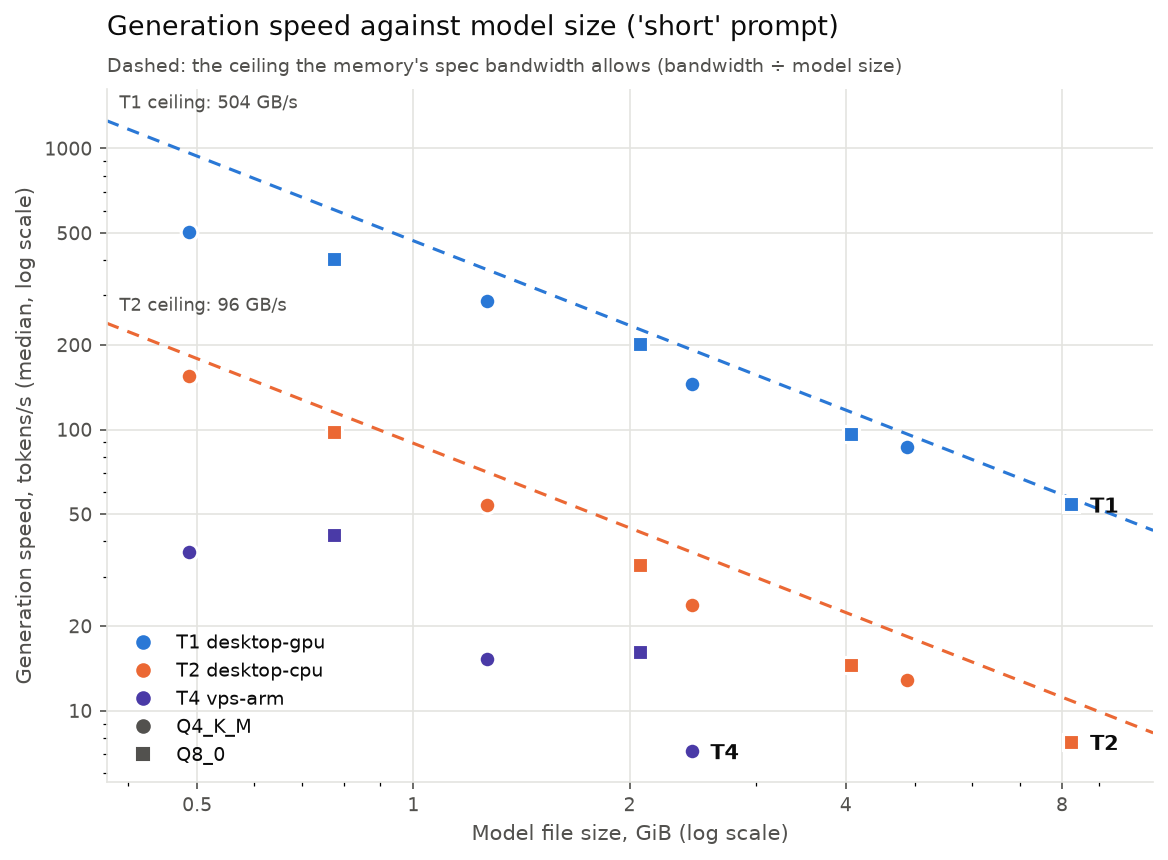
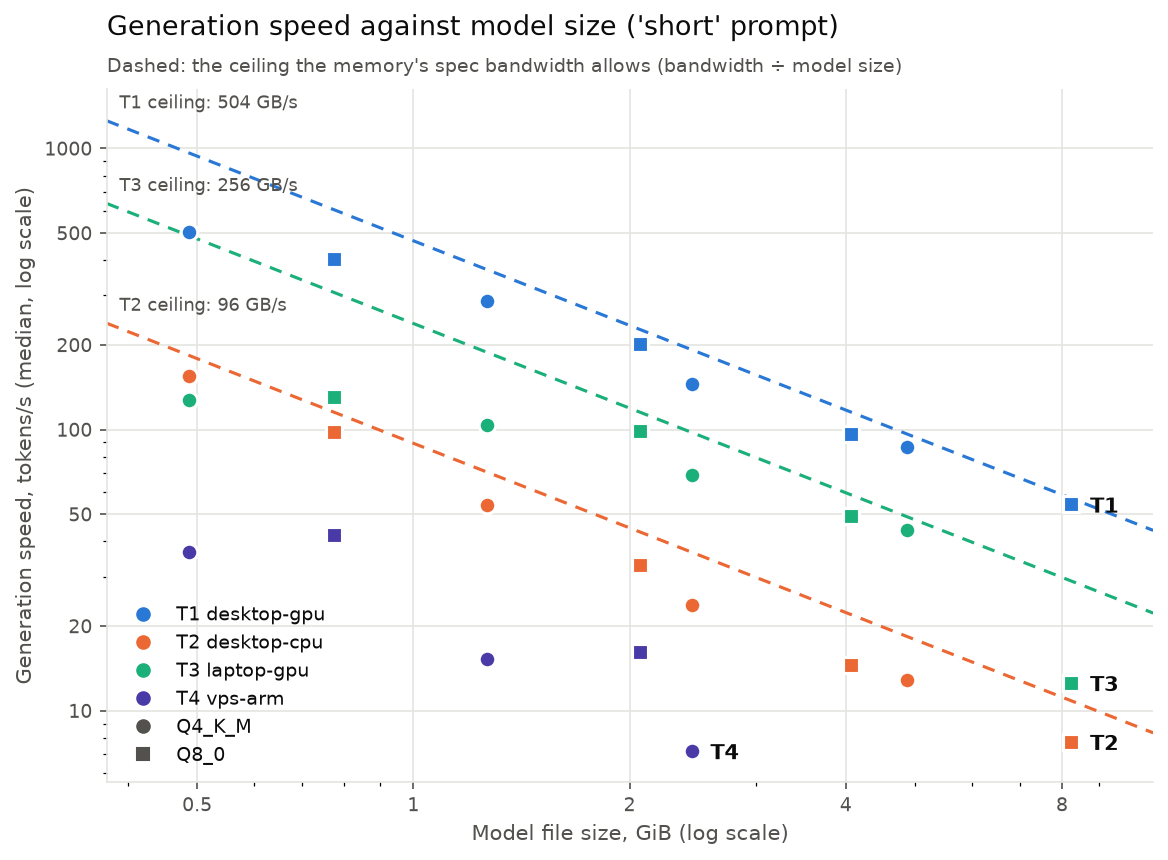
docs(report): regenerate result files with T3 results
Since the report was missing T3 results previosly
need to regenerate and commit updated version.

diff --git a/report/results.md b/report/results.md
@@ -75,6 +75,37 @@ AMD Ryzen 7 9800X3D 8-Core Processor · NVIDIA GeForce RTX 4070, 615.71.09, 1228
 | qwen3-8b-q8 | long_context | 10/10 | 29,405 | 99.8 | 7.12 | 9.58 | 0% |  |  |
 | qwen3-8b-q8 | structured | 10/10 | 2,407 | 108 | 7.63 | 8.62 | 0% | 10/10 correct |  |
 
+## T3 · laptop-gpu
+
+AMD64 Family 25 Model 68 Stepping 1, AuthenticAMD · NVIDIA GeForce RTX 4060 Laptop GPU, 591.66, 8188 MiB · RAM unknown · Windows 11 · Ollama 0.34.4 · harness e83569f · started 2026-10-12 09:01 UTC · `results/T3-20261012T090108Z.jsonl`
+
+| Model | Regime | Measured | TTFT ms | Prompt tok/s | Gen tok/s | Loaded GiB | GPU | Quality | Failure |
+|---|---|---:|---:|---:|---:|---:|---:|---|---|
+| qwen3-0.6b-q4 | short | 10/10 | 37.2 | 1,125 | 128 | 0.65 | 100% |  |  |
+| qwen3-0.6b-q4 | long_context | 10/10 | 420 | 7,481 | 218 | 1.34 | 100% |  |  |
+| qwen3-0.6b-q4 | structured | 10/10 | 90.6 | 3,161 | 180 | 0.65 | 100% | 0/10 correct |  |
+| qwen3-0.6b-q8 | short | 10/10 | 36.7 | 1,151 | 131 | 0.86 | 100% |  |  |
+| qwen3-0.6b-q8 | long_context | 10/10 | 425 | 7,386 | 187 | 1.56 | 100% |  |  |
+| qwen3-0.6b-q8 | structured | 10/10 | 86.9 | 3,320 | 156 | 0.86 | 100% | 0/10 correct |  |
+| qwen3-1.7b-q4 | short | 10/10 | 48.6 | 813 | 104 | 1.36 | 100% |  |  |
+| qwen3-1.7b-q4 | long_context | 10/10 | 570 | 5,392 | 133 | 2.08 | 100% |  |  |
+| qwen3-1.7b-q4 | structured | 10/10 | 139 | 1,992 | 140 | 1.36 | 100% | 0/10 correct |  |
+| qwen3-1.7b-q8 | short | 10/10 | 42.7 | 952 | 98.9 | 2.02 | 100% |  |  |
+| qwen3-1.7b-q8 | long_context | 10/10 | 560 | 5,514 | 95.8 | 2.74 | 100% |  |  |
+| qwen3-1.7b-q8 | structured | 10/10 | 124 | 2,251 | 99.7 | 2.02 | 100% | 10/10 correct |  |
+| qwen3-4b-q4 | short | 10/10 | 75.4 | 489 | 69.0 | 2.79 | 100% |  |  |
+| qwen3-4b-q4 | long_context | 10/10 | 1,038 | 2,911 | 68.4 | 3.72 | 100% |  |  |
+| qwen3-4b-q4 | structured | 10/10 | 264 | 1,011 | 75.6 | 2.79 | 100% | 10/10 correct |  |
+| qwen3-4b-q8 | short | 10/10 | 80.6 | 454 | 49.1 | 4.42 | 100% |  |  |
+| qwen3-4b-q8 | long_context | 10/10 | 1,003 | 3,007 | 46.9 | 5.35 | 100% |  |  |
+| qwen3-4b-q8 | structured | 10/10 | 244 | 1,101 | 50.6 | 4.42 | 100% | 10/10 correct |  |
+| qwen3-8b-q4 | short | 10/10 | 123 | 292 | 44.0 | 4.91 | 100% |  |  |
+| qwen3-8b-q4 | long_context | 10/10 | 1,423 | 2,104 | 42.7 | 5.76 | 100% |  |  |
+| qwen3-8b-q4 | structured | 10/10 | 345 | 767 | 46.3 | 4.91 | 100% | 10/10 correct |  |
+| qwen3-8b-q8 | short | 10/10 | 266 | 128 | 12.6 | 8.66 | 67% |  |  |
+| qwen3-8b-q8 | long_context | 10/10 | 2,825 | 1,050 | 8.10 | 9.53 | 60% |  |  |
+| qwen3-8b-q8 | structured | 10/10 | 387 | 683 | 12.5 | 8.66 | 67% | 10/10 correct |  |
+
 ## T4 · vps-arm
 
 Neoverse-N1 · no NVIDIA GPU · 3.7 GiB RAM · Linux 6.17.0-1017-aws · Ollama 0.34.4 · harness e83569f · started 2026-10-10 20:07 UTC · `results/T4-20261010T200733Z.jsonl`
